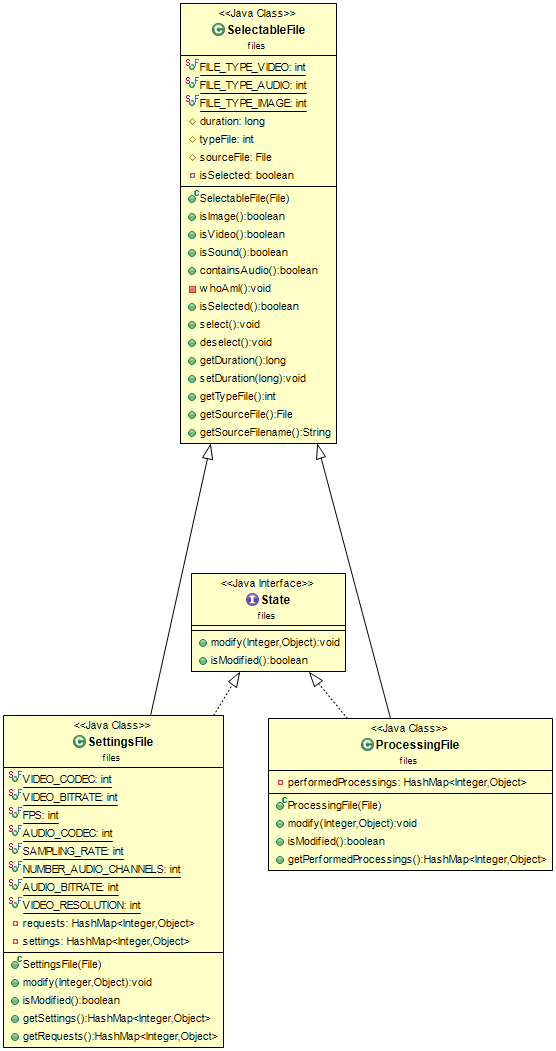
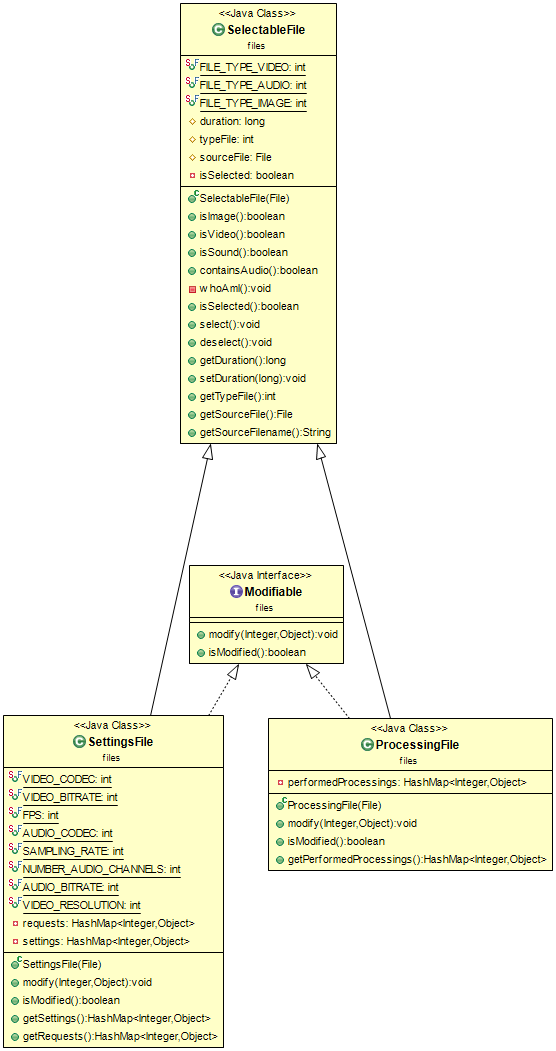
Correction de OpeningWindow.

Changed region(s): [[0.3363, 0.5176, 0.6421, 0.6698]]

diff --git a/src/tools/Tools.java b/src/tools/Tools.java
@@ -1,0 +1,40 @@
+package tools;
+
+import java.awt.Dimension;
+import java.awt.Toolkit;
+import java.io.File;
+import java.io.IOException;
+import javax.imageio.ImageIO;
+import javax.swing.JFrame;
+
+public final class Tools {
+	//=======================================================================================================================
+	//=======================================================================================================================
+	
+	
+	public static void showLogo(JFrame f) {
+		try {
+			f.setIconImage(ImageIO.read(new File(ResourcesPaths.ACAJA_LOGO_PATH)));
+		} catch (IOException e1) {
+			e1.printStackTrace();
+		}
+	}
+	
+	
+	//=======================================================================================================================
+	//=======================================================================================================================
+	
+	
+	public static void focusWindow(JFrame window) {
+		//recuperation des dimensions de l'ecran.
+		Dimension screen = Toolkit.getDefaultToolkit().getScreenSize();
+		//on positionne la fenetre au centre de l'ecran.
+		window.setLocation(
+				(int)(screen.getWidth()-window.getWidth())/2, 
+				(int)(screen.getHeight()-window.getHeight())/2);
+	}
+	
+	
+	//=======================================================================================================================
+	//=======================================================================================================================
+}

diff --git a/src/conversion/ConversionPanel.java b/src/conversion/ConversionPanel.java
@@ -1,4 +1,4 @@
-package gui_conversion;
+package conversion;
 
 import java.awt.BorderLayout;
 import java.awt.Dimension;
@@ -24,6 +24,7 @@ import javax.swing.JPanel;
 import exceptions.ImportationException;
 import exceptions.IncorrectFileException;
 import main_pack.OpeningWindow;
+import tools.Tools;
 
 public final class ConversionPanel extends JFrame{
 	 private ConversionModel model;
@@ -177,7 +178,7 @@ public final class ConversionPanel extends JFrame{
 				public void actionPerformed(ActionEvent e) {
 					//ici ouvrir la fenetre de chargement 
 					JFrame chargement = new JFrame("Convertion de votre fichier");
-					OpeningWindow.afficherLogo(chargement);
+					Tools.showLogo(chargement);
 
 					chargement.setLayout(new BorderLayout());
 					chargement.setSize(400, 150);
@@ -211,7 +212,7 @@ public final class ConversionPanel extends JFrame{
 		 cp.setResizable(false);
 		 cp.setTitle("Acaja Conversion");
 		 cp.setSize(new Dimension(1000,600));
-		 OpeningWindow.afficherLogo(cp);
+		 Tools.showLogo(cp);
 		 try {
 			 cp.setIconImage(ImageIO.read(new File("img/LogoAcaja.png")));
 		 } catch (IOException e1) {}

diff --git a/src/files/SelectableFile.java b/src/files/SelectableFile.java
@@ -152,13 +152,15 @@ public class SelectableFile{
 	 * Cette methode permet de savoir si le fichier source est une video, ou un son,
 	 * ou meme une image.
 	 * 
-	 * 3 valeurs possiblement accordable a typeFile : - FILE_TYPE_VIDEO ( = 0 ) ; -
-	 * FILE_TYPE_AUDIO ( = 1 ) ; - FILE_TYPE_IMAGE ( = 2 ).
+	 * 3 valeurs possiblement accordable a typeFile : 
+	 * - FILE_TYPE_VIDEO ( = 0 ) ; 
+	 * - FILE_TYPE_AUDIO ( = 1 ) ; 
+	 * - FILE_TYPE_IMAGE ( = 2 ).
 	 * 
 	 * @throws IncorrectFileException 
 	 */
 	private void whoAmI() throws IncorrectFileException {
-		String fileName = this.sourceFile.getName().toLowerCase();
+		String fileName = sourceFile.getName().toLowerCase();
 		if (fileName.endsWith("mp4") || fileName.endsWith("avi") || fileName.endsWith("flv"))
 			typeFile = FILE_TYPE_VIDEO;
 		else if (fileName.endsWith("mp3") || fileName.endsWith("wav") || fileName.endsWith("ogg"))

diff --git a/src/files/SettingsFile.java b/src/files/SettingsFile.java
@@ -5,7 +5,7 @@ import java.io.IOException;
 import java.util.HashMap;
 
 import exceptions.IncorrectFileException;
-import ffmpeg_tools.SystemRequests;
+import ffmpeg.SystemRequests;
 
 /**
  * TODO comentaire a faire.
@@ -15,7 +15,7 @@ import ffmpeg_tools.SystemRequests;
  * @author HUBLAU Alexandre, PAMIERI Adrien, DA SILVA CARMO Alexandre, et
  *         CHEVRIER Jean-christophe.
  */
-public final class SettingsFile extends SelectableFile implements State{
+public final class SettingsFile extends SelectableFile implements Modifiable{
 	//=======================================================================================================================
 	//=======================================================================================================================
 	

diff --git a/src/files/ProcessingFile.java b/src/files/ProcessingFile.java
@@ -3,14 +3,14 @@ import java.io.File;
 import java.util.HashMap;
 
 import exceptions.IncorrectFileException;
-import ffmpeg_tools.SystemRequests;
+import ffmpeg.SystemRequests;
 /**
  * TODO comentaire a faire. 
  * 
  * Auteurs du projet : 
  * @author HUBLAU Alexandre, PAMIERI Adrien, DA SILVA CARMO Alexandre, et CHEVRIER Jean-christophe.
  */
-public final class ProcessingFile extends SelectableFile implements State{
+public final class ProcessingFile extends SelectableFile implements Modifiable{
 	//=======================================================================================================================
 	//=======================================================================================================================
 	

diff --git a/src/conversion/ConversionModel.java b/src/conversion/ConversionModel.java
@@ -1,4 +1,4 @@
-package gui_conversion;
+package conversion;
 
 import java.io.File;
 import java.util.ArrayList;
@@ -8,7 +8,7 @@ import javax.swing.DefaultListModel;
 import javax.swing.JOptionPane;
 
 import exceptions.IncorrectFileException;
-import ffmpeg_tools.UserRequests;
+import ffmpeg.UserRequests;
 import files.SettingsFile;
 
 public final class ConversionModel extends Observable {

diff --git a/src/tests/conversion/TestConversionModel.java b/src/tests/conversion/TestConversionModel.java
@@ -1,8 +1,8 @@
-package tests.gui_conversion;
+package tests.conversion;
 
 import org.junit.Test;
 
-import gui_conversion.ConversionModel;
+import conversion.ConversionModel;
 
 public final class TestConversionModel {
 

diff --git a/src/tools/ResourcesPaths.java b/src/tools/ResourcesPaths.java
@@ -1,0 +1,9 @@
+package tools;
+
+import java.awt.Image;
+import java.io.File;
+import javax.imageio.ImageIO;
+
+public final class ResourcesPaths {
+	public final static String ACAJA_LOGO_PATH = "img/LogoAcaja.png";
+}

diff --git a/src/ffmpeg/FFmpegRuntime.java b/src/ffmpeg/FFmpegRuntime.java
@@ -1,4 +1,4 @@
-package ffmpeg_tools;
+package ffmpeg;
 import java.io.IOException;
 /**
  * [ SUPERCLASSE ABSTRAITE POUR L'INTERFACAGE JAVA - FFMPEG ---- DEGRE 1. ]

diff --git a/src/conversion/SummaryView.java b/src/conversion/SummaryView.java
@@ -1,4 +1,4 @@
-package gui_conversion;
+package conversion;
 import java.awt.BorderLayout;
 import java.awt.Color;
 import java.awt.Dimension;

diff --git a/src/files/Modifiable.java b/src/files/Modifiable.java
@@ -1,6 +1,6 @@
 package files;
 
-public interface State {
+public interface Modifiable {
 	/**
 	 * [ METHODE POUR MODIFIER THIS. ]
 	 * 
